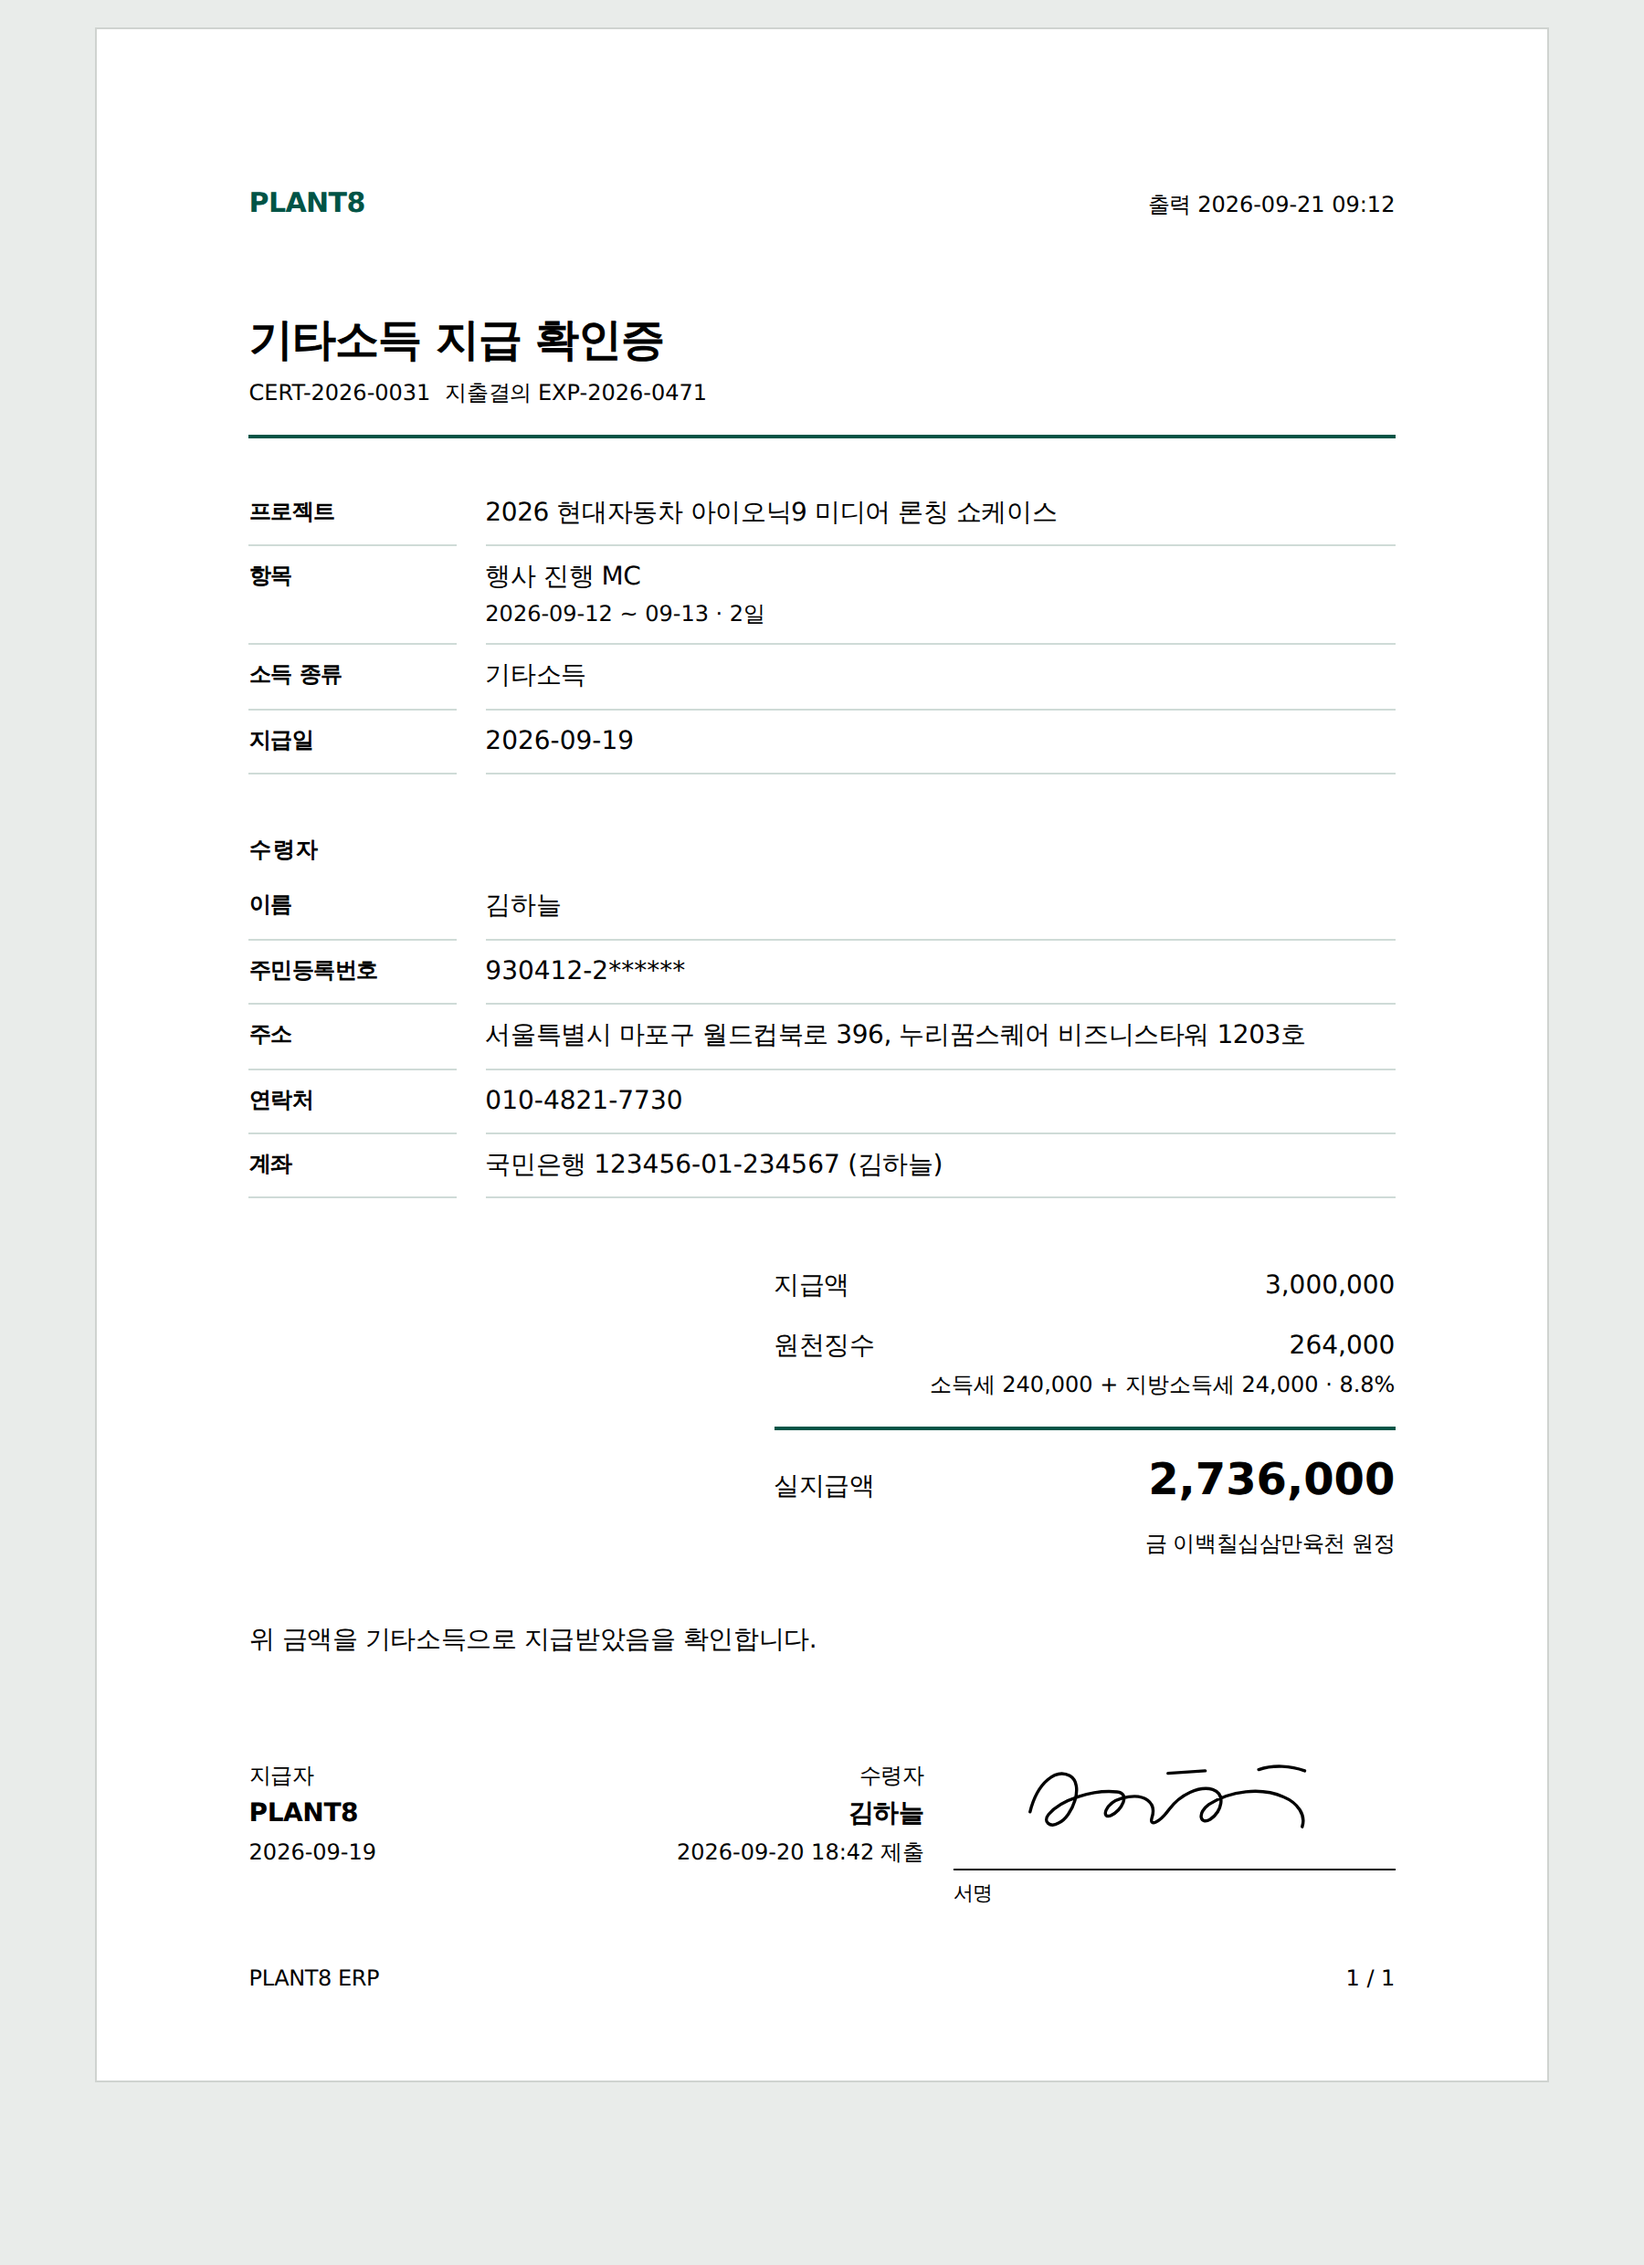
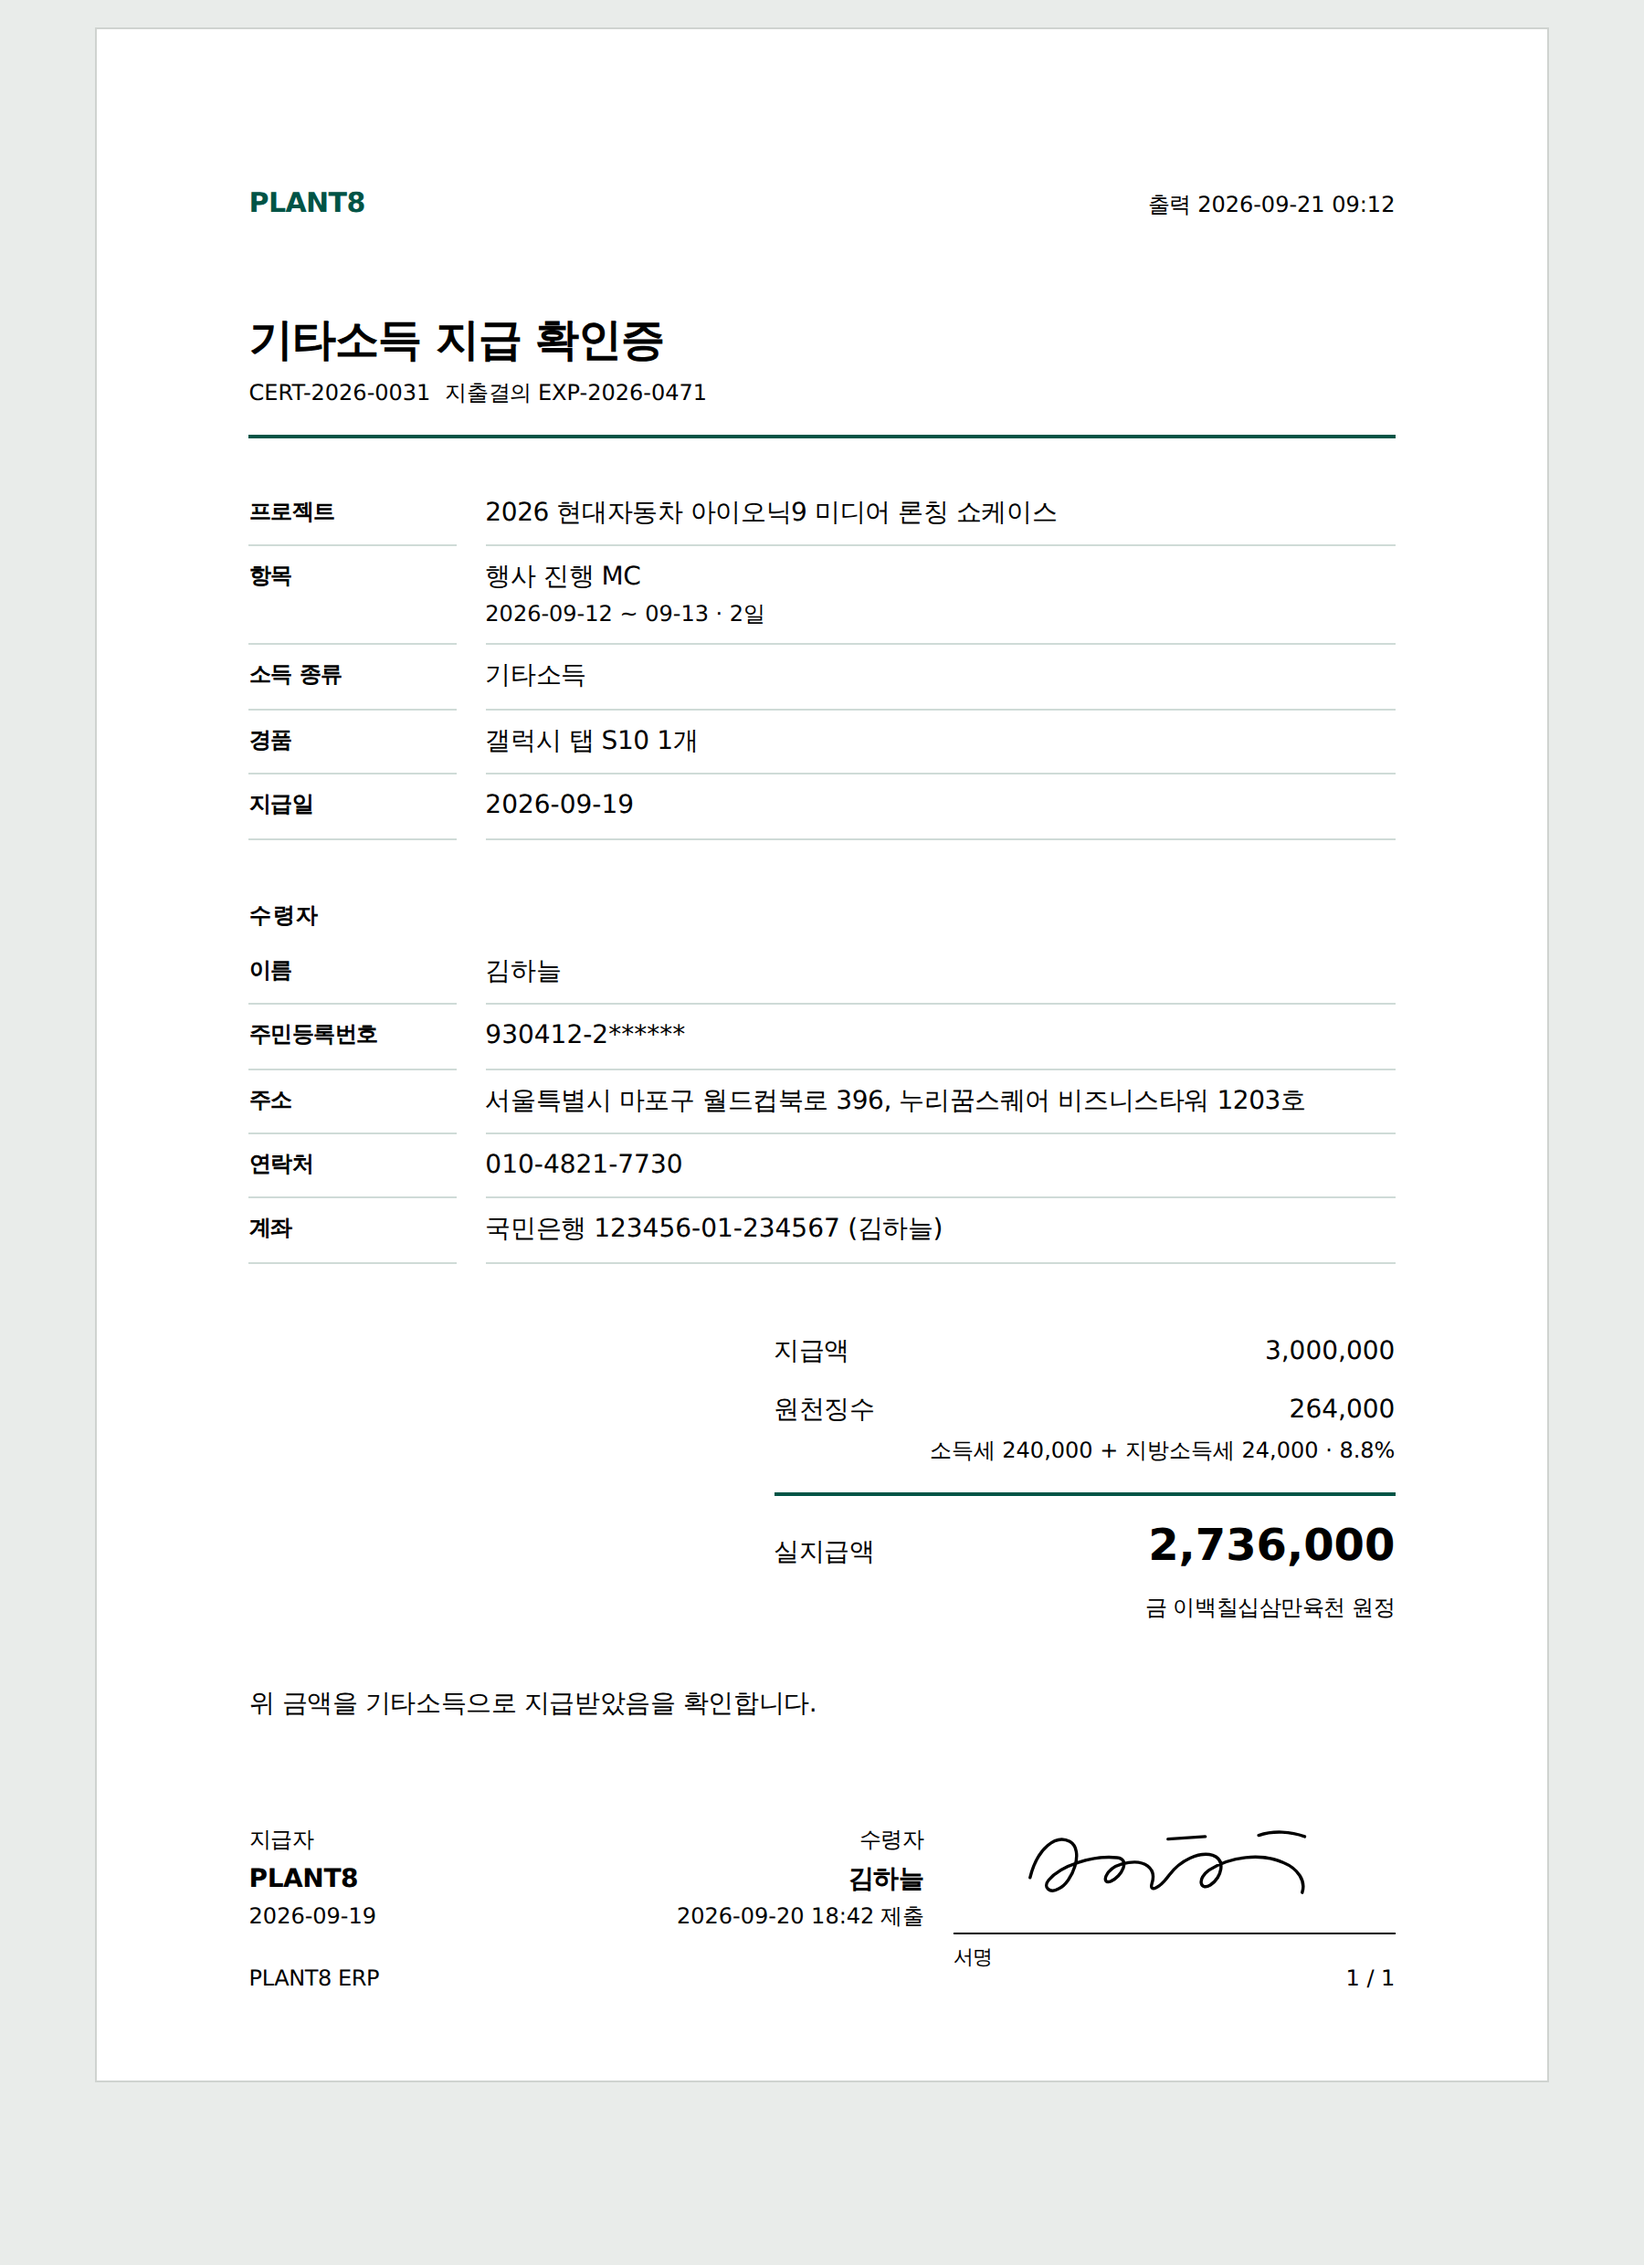
docs: 인쇄 확인증에 「경품」 행 추가 — 나머지 골격 그대로
사용자 결정(2026-09-18): 인쇄물에는 경품명만 더 추가. 현물이면 품목·수량,
현금이면 「—」. 지급액·원천징수·계좌는 그대로. §6-6 한 줄 갱신.

Claude-Session: https://claude.ai/code/session_01MwoSZSUG1tWADvG16RK3Ss

diff --git a/docs/design/system/print-cert.html b/docs/design/system/print-cert.html
@@ -73,6 +73,7 @@ table.st{width:100%;border-collapse:collapse;margin-top:var(--s-8);font-size:var
     <dt>프로젝트</dt><dd>2026 현대자동차 아이오닉9 미디어 론칭 쇼케이스</dd>
     <dt>항목</dt><dd>행사 진행 MC<span class="sm num">2026-09-12 ~ 09-13 · 2일</span></dd>
     <dt>소득 종류</dt><dd>기타소득</dd>
+    <dt>경품</dt><dd>갤럭시 탭 S10 <span class="num">1</span>개</dd>
     <dt>지급일</dt><dd class="num">2026-09-19</dd>
   </dl>
 

diff --git a/docs/design/NEXT-SESSION.md b/docs/design/NEXT-SESSION.md
@@ -1,4 +1,4 @@
-# 다음 세션 — §4(통일): **C 끝. 인쇄 확인증 경품 반영 여부 → B(Pretendard)**
+# 다음 세션 — §4(통일): **C 끝 · 인쇄 확인증 경품 행 추가 끝 → B(Pretendard)**
 
 §1·§2·§3은 끝났고 §4(통일)가 진행 중이다. 판단의 근거는 `BRIEF.md` → `EXPLORE.md` → `SYSTEM.md`·`DECISIONS.md` 순서. 어긋나면 `SYSTEM.md`가 맞다.
 
@@ -13,7 +13,7 @@
 ## 1. 시작 순서
 
 1. `.planning/STATE.md`와 열린 PR(#9 등)로 Phase 1 진행 여부 확인 → 진행 중이면 GSD 명령 금지
-2. C는 전부 끝. **먼저 한 건 묻는다**: 인쇄 「기타소득 지급 확인증」(§6-6, `print-cert.html`)이 아직 지급액 · 원천징수 8.8% · 계좌 골격인데, 경품이 대부분이므로 경품명 · 시가 · 원천징수 22%로 바꿀지(내부·세무 보관용이라 세금 줄은 남는다). 그다음 B를 할지 묻는다
+2. C는 전부 끝. 인쇄 확인증에는 사용자 결정으로 「경품」 행만 추가했다(나머지 그대로). 남은 것은 **B(Pretendard)** — 할지 묻는다
 3. 결정이 필요한 것은 **실물(HTML → 스크린샷 → 보드 아티팩트)을 먼저** 보이고 **한 건씩** 묻는다. 「고칠 것이 있음」이라고만 답하면 무엇인지 되묻는다 — 첫 답이 질문일 수 있다
 4. 끝나면 `DECISIONS.md`(결정) → `SYSTEM.md`(규칙) → `system/README.md`(실물 목록) → 이 파일(상태) 순서로 갱신, 커밋(영어 접두어 + 한국어 본문), 푸시, 드래프트 PR
 
@@ -52,9 +52,8 @@
 C-1 폼은 보드(https://claude.ai/artifact/Ts4ScSj1hD2AiiWD17Evkc)로 확정했다 — `DECISIONS.md` 「폼 화면 실물 확정 7건」, `SYSTEM.md` §6-3. C-1 폼(보드 https://claude.ai/artifact/Ts4ScSj1hD2AiiWD17Evkc) · C-2 손익(https://claude.ai/artifact/5kQyygb3hLbiQpo38BNznr, 원장 → 대시보드) · C-3 외부 수령자(https://claude.ai/artifact/LF5FZgn2Qqbp7VMVHdfgSD, 현금 → 경품) 전부 확정. `DECISIONS.md` 세 절, `SYSTEM.md` §6-3 · §6-4 · §6-5, `tokens.css` 토큰 3종.
 
 ### 다음 세션이 할 일
-1. 인쇄 확인증 경품 반영 여부를 묻는다(위 1-2). 바꾸면 `print-cert.html` 다시 그려 보드 → 확정 → §6-6 · DECISIONS
-2. B(Pretendard) 할지 묻는다
-3. C에서 배운 것: 사용자는 실물을 보고서야 전제(현금 vs 경품)를 말한다 — 첫 보드에 **업무 전제를 한 줄로 적어 두고** 「이 전제가 맞나」부터 묻는다. 「다 빼라」는 말은 글자 그대로 뺀다(안내 문구까지)
+1. B(Pretendard) 할지 묻는다 — B 절의 「물을 것」 한 건부터
+2. C에서 배운 것: 사용자는 실물을 보고서야 전제(현금 vs 경품)를 말한다 — 첫 보드에 **업무 전제를 한 줄로 적어 두고** 「이 전제가 맞나」부터 묻는다. 「다 빼라」는 말은 글자 그대로 뺀다(안내 문구까지)
 
 ### 초안이 임시로 정한 것 (SYSTEM.md에 없는 것 — 보드에서 「내가 정한 것」 표로 보이고 물어야 한다)
 - **C-1 폼**: 전부 확정(2026-09-18) — `DECISIONS.md` 폼 화면 7건. (a) 입력 아래 한 줄 (b) 탭 위에 제출 줄 (c) 「바꾸기」 = 목록(모달·시트) (d) 건너뜀은 그리지 않고 한 마디

diff --git a/docs/design/SYSTEM.md b/docs/design/SYSTEM.md
@@ -484,7 +484,7 @@ A4 210×297, 여백 22mm(위·좌·우) 20mm(아래)
 - **2px 선은 전부 `--print-rule`(그린)**: 제목 아래 괘선 · 명세 표 머리와 합계 · 결재 칸 위 · 확인증 금액 블록의 실지급액 위. 워드마크도 같은 색. 그 밖의 글자·숫자·서명은 `--print-ink`
 - **금액**: 지출결의서는 명세 표(구분 · 내용 · 금액)로, 합계 행에 `--fs-xl` 700 + 한글 금액 병기(「금 일천삼백육십사만 원정」). 확인증은 오른쪽 90mm 금액 블록(지급액 · 원천징수 + 내역 2행 · 실지급액 `--fs-xl` + 한글 금액)
 - 결재 칸: **이름 + 결재 일시 텍스트**. 직원 서명 이미지는 쓰지 않는다(사용자 결정 U2). 서명 이미지는 확인증의 수령자 터치 서명만
-- 기타소득 확인증: 같은 골격. 제목 「기타소득 지급 확인증」, 부제 = 확인증 번호 + 연결 지출결의 번호, 지급 내용(프로젝트 · 항목 · 소득 종류 · 지급일), 「수령자」 표(이름 · 주민등록번호 뒷자리 마스킹 · 주소 · 연락처 · 계좌), 금액 블록, 확인 문장 한 줄(「위 금액을 기타소득으로 지급받았음을 확인합니다.」), 하단에 지급자(회사명 · 지급일) · 수령자(이름 · 제출 일시) · 터치 서명 이미지(64mm, 아래 1px 선). **v1에서 수령자는 이 인쇄물을 보지 않는다**(내부·세무 보관용, §6-5)
+- 기타소득 확인증: 같은 골격. 제목 「기타소득 지급 확인증」, 부제 = 확인증 번호 + 연결 지출결의 번호, 지급 내용(프로젝트 · 항목 · 소득 종류 · **경품**(현물이면 품목 · 수량, 현금이면 「—」, 2026-09-18 추가) · 지급일), 「수령자」 표(이름 · 주민등록번호 뒷자리 마스킹 · 주소 · 연락처 · 계좌), 금액 블록, 확인 문장 한 줄(「위 금액을 기타소득으로 지급받았음을 확인합니다.」), 하단에 지급자(회사명 · 지급일) · 수령자(이름 · 제출 일시) · 터치 서명 이미지(64mm, 아래 1px 선). **v1에서 수령자는 이 인쇄물을 보지 않는다**(내부·세무 보관용, §6-5)
 - 인쇄 규칙: 그린 틴트 면 · 상단 바 · 버튼 · 힌트 줄 · 상태 태그 **전부 없음**. 페이지 나눔은 표 행 안에서 일어나지 않게 `break-inside: avoid`. 첨부 이미지는 2장부터 한 장에 하나, 긴 변 맞춤
 - 화면에서 「인쇄」는 2차 버튼. 새 탭으로 인쇄 라우트를 열고 자동 `window.print()`
 
